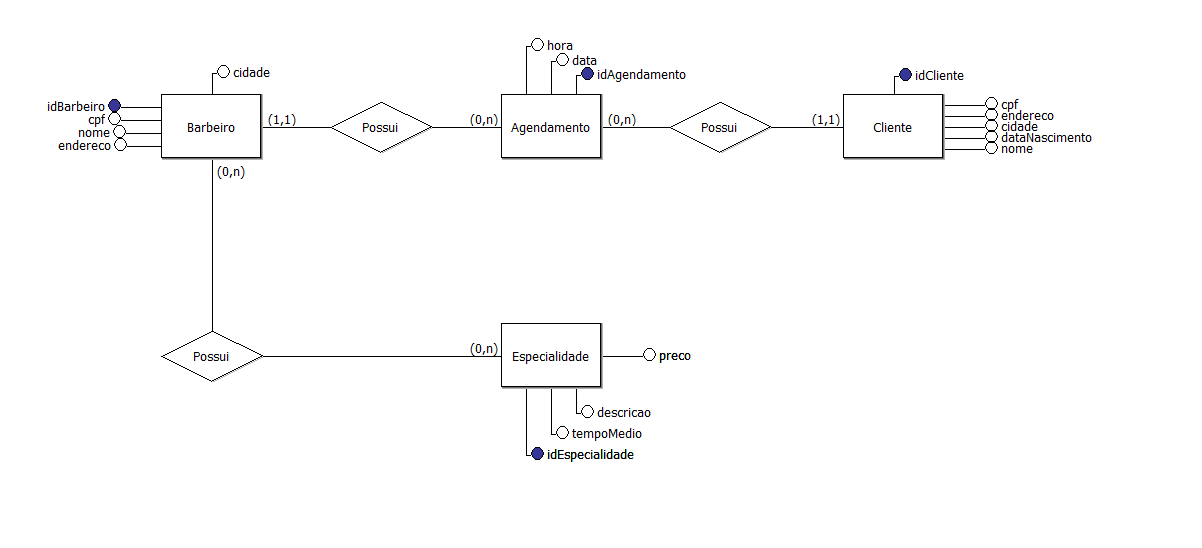
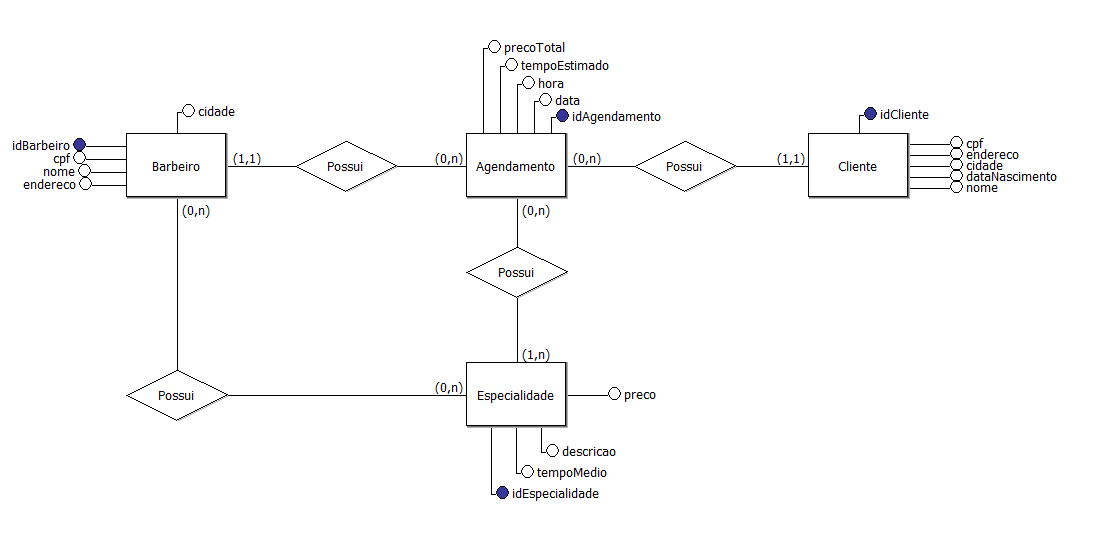
Corrigindo modelo conceitual

diff --git a/src/main/java/com/example/barbeariaviniespinosasamuelferraz/entity/Cliente.java b/src/main/java/com/example/barbeariaviniespinosasamuelferraz/entity/Cliente.java
@@ -9,10 +9,7 @@ import javax.persistence.GeneratedValue;
 import javax.persistence.GenerationType;
 import javax.persistence.Id;
 import javax.persistence.JoinColumn;
-import javax.persistence.JoinTable;
-import javax.persistence.ManyToMany;
 import javax.persistence.OneToMany;
-import javax.persistence.UniqueConstraint;
 
 @Entity
 public class Cliente implements Serializable {

diff --git a/src/main/java/com/example/barbeariaviniespinosasamuelferraz/controller/BarbeiroController.java b/src/main/java/com/example/barbeariaviniespinosasamuelferraz/controller/BarbeiroController.java
@@ -1,7 +1,5 @@
 package com.example.barbeariaviniespinosasamuelferraz.controller;
 
-import java.util.List;
-
 import com.example.barbeariaviniespinosasamuelferraz.entity.Barbeiro;
 import com.example.barbeariaviniespinosasamuelferraz.service.BarbeiroService;
 

diff --git a/src/main/java/com/example/barbeariaviniespinosasamuelferraz/entity/Barbeiro.java b/src/main/java/com/example/barbeariaviniespinosasamuelferraz/entity/Barbeiro.java
@@ -8,7 +8,6 @@ import javax.persistence.GeneratedValue;
 import javax.persistence.GenerationType;
 import javax.persistence.Id;
 import javax.persistence.JoinColumn;
-import javax.persistence.ManyToOne;
 import javax.persistence.OneToMany;
 
 @Entity
